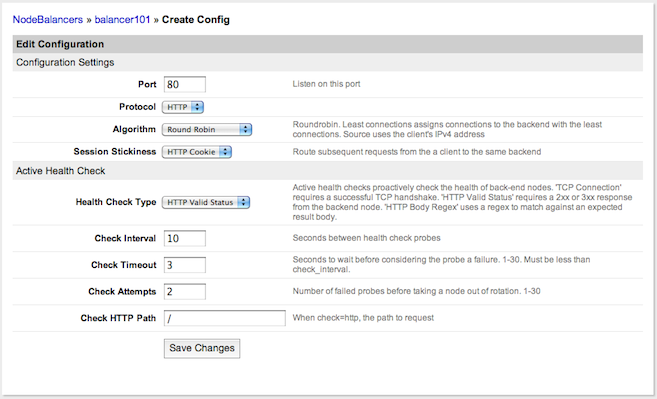
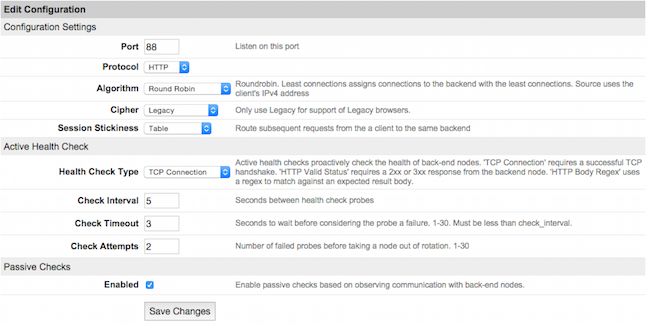
Edits to nodebalancer guides for new cipher type.

Changed region(s): [[0.0, 0.0, 1.0, 1.0], [0.1538, 0.8282, 0.8, 0.9202], [0.4308, 0.184, 0.5538, 0.2147]]

diff --git a/docs/platform/nodebalancer/getting-started-with-nodebalancers.md b/docs/platform/nodebalancer/getting-started-with-nodebalancers.md
@@ -55,7 +55,7 @@ Now click on **Create Configuration**. A NodeBalancer is configured using ports,
 
 [![Adding a port configuration to a NodeBalancer.](/docs/assets/798-3.png)](/docs/assets/774-add-port.png)
 
-For the traditional Web application, these settings are a good start. HTTP cookie stickiness is preferred so that the same client will always land on the same backend -- for a simple Web application that keeps sessions in memory, this is necessary to avoid session errors on clients.
+For the traditional Web application, these settings are a good start. HTTP cookie stickiness is preferred so that the same client will always land on the same backend -- for a simple Web application that keeps sessions in memory, this is necessary to avoid session errors on clients.  If you require support for older browsers, you can select the `Legacy` cypher option. For all other implementations, use the `Recommended` option, which is selected by default.
 
  {: .note }
 >

diff --git a/docs/platform/nodebalancer/nodebalancer-reference-guide.md b/docs/platform/nodebalancer/nodebalancer-reference-guide.md
@@ -55,6 +55,10 @@ How initial new connections are allocated across the backend Nodes.
 -   **Least Connections** - Tracks each backend Linode's connection count, and allocates new connections to the node with the least connections.
 -   **Source IP** - Modulates the client's IP to allocate them to the same backend on subsequent requests. This works so long as the set of backend Linodes doesn't change, however Session Stickiness affects this behavior.
 
+###Cipher
+
+The legacy cipher option is provided to allow support for older browsers. The default `Recommended` cipher option provides current best practices HTTPS support.  If you do not require support for legacy browsers, we recommend utilizing the default cipher option.
+
 ### Session Stickiness
 
 NodeBalancers have the ability for Session Persistence - meaning subsequent requests from the same client will be routed to the same backend Node when possible.
